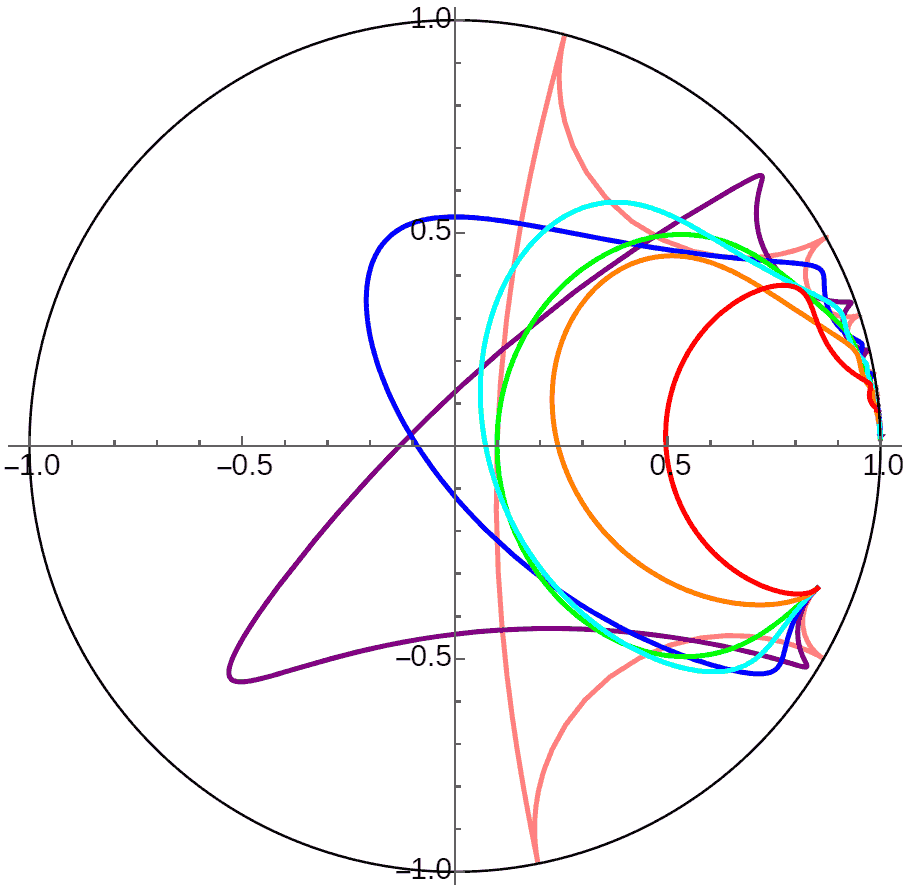
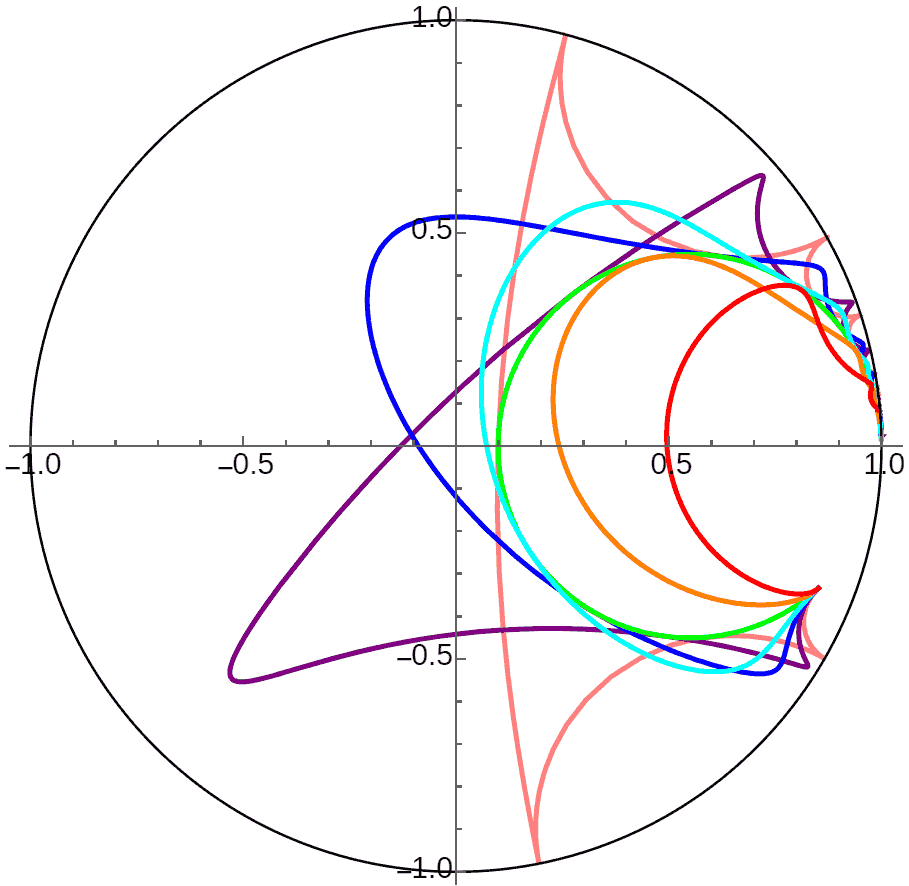
Site updated: 2023-06-30 22:18:45

diff --git a/archives/hyperworld/index.html b/archives/hyperworld/index.html
@@ -51,7 +51,7 @@
 <meta property="og:image" content="https://wxyhly.github.io/img/h3world015.png">
 <meta property="og:image" content="https://wxyhly.github.io/img/h3world002.gif">
 <meta property="article:published_time" content="2023-06-28T15:02:11.000Z">
-<meta property="article:modified_time" content="2023-06-30T14:06:43.661Z">
+<meta property="article:modified_time" content="2023-06-30T14:18:37.802Z">
 <meta property="article:author" content="wxyhly">
 <meta property="article:tag" content="物理">
 <meta property="article:tag" content="几何">
@@ -237,7 +237,7 @@
 </ul>
 <p>从计算结果上可发现，由于极限圆周长是无限的，所以行星要么持续接近中心天体要么远离，因为行星永远也到不了位于无穷远处的“近日点”或“远日点”。所以这里其实跟四维空间中的那种三次方反比的不稳定轨道很像。注意虽然图中红、橙、绿色的轨道在庞加莱圆盘模型中看起来都是趋于无穷远中心天体，但其实绿色轨道是是个极限圆，行星始终保持距无穷远中心天体不变做“均速极限圆周”运动，而红色与橙色轨道才是真正的由于行星初速不够而持续向极限圆中心坠落的轨道，行星可以沿这些轨道在有限的时间内疯狂加速到达无穷远中心天体处！虽然这里只是讨论双曲空间中的牛顿力学，但这非常像物体掉进黑洞后可以在有限时间内到达奇点。</p>
 <p>最先我以为无穷远中心天体引力场中的行星轨道就都是这个规律，后来我在尝试计算行星在极限球星球内部的理论轨道时发现结果很奇怪，发现有东西不对：不同维度中的引力公式都是距离的指数函数，只是系数不同——$n$维空间中的引力表达式为$\exp(nd)$。我最先错误认为这个系数对轨道形状没有影响，然而这个系数其实提出来是幂$(\exp(d))^n$，它对轨道形状及稳定性都是有影响的。二维双曲世界中轨道的计算结果发现行星的运动居然有周期性！我认为它跟三维空间情况的区别主要是二维空间轨道有进动，导致“近日点”与“远日点”不再位于圆形轨道的两端，这样当圆趋于无穷变极限圆后“近日点”与“远日点”都将在有限的位置，并且在极限圆上出现了无穷个“近日点”与“远日点”！我们可以看到这个“近日点”与“远日点”在极限圆上出现的周期随着初速度的提高而减小，且有个极限周期（对应刚好略低于逃逸速度的轨道，如图中的紫色轨道）<img width="100%" style="max-width:400px" alt="二维双曲空间中的无穷远中心天体引力场中的行星不同初速的轨道" src="/img/h3world012.png"/><br>可能你觉得看不出上面的轨道有周期性，我这里做一段沿极限圆做理想旋转的动画：<br><img src="/img/h3world001.gif" alt="理想旋转可看出这些轨道的周期性，注意每个轨道的周期都不同"><br>如果空间维数是四维，则轨道会变得不稳定。它跟刚才三维说的区别是轨道的发散和收敛会更快，对极限圆轨道的初始速度精确性更敏感，这里就不放图了。</p>
-<h4 id="行星位于极限球星球内部"><a href="#行星位于极限球星球内部" class="headerlink" title="行星位于极限球星球内部"></a>行星位于极限球星球内部</h4><p>还有一种一种情况只在数学上有意义：行星在极限球星球内部受到大小恒定的指向球心的引力。虽然实际上行星不可能在另一个星体内部运行，但我们也可以来探究一下行星轨道的稳定性：<br><img width="100%" style="max-width:400px" alt="极限球天体内部引力场中的行星不同初速的轨道" src="/img/h3world013.png"/><br>它跟二维极限球星球外部轨道很像，但由于引力至为常数不衰减，所以行星逃逸速度为无穷大。当速度接近无穷时（图中粉色轨道），它的轨迹接近自由运动的测地线，到了很远的地方后，测地线的方向将与指向极限圆中心的方向相反，引力可以一直慢慢做负功，直到让行星掉头重新掉回来。图中可以明显看到行星掉回来后它在最低点的高度会小于初始平抛的高度位置，我不知道是计算错误&#x2F;误差还是本来就是这样的规律。。。</p>
+<h4 id="行星位于极限球星球内部"><a href="#行星位于极限球星球内部" class="headerlink" title="行星位于极限球星球内部"></a>行星位于极限球星球内部</h4><p>还有一种一种情况只在数学上有意义：行星在极限球星球内部受到大小恒定的指向球心的引力。虽然实际上行星不可能在另一个星体内部运行，但我们也可以来探究一下行星轨道的稳定性：<br><img width="100%" style="max-width:400px" alt="极限球天体内部引力场中的行星不同初速的轨道" src="/img/h3world013.png"/><br>它跟二维极限球星球外部轨道很像，但由于引力至为常数不衰减，所以行星逃逸速度为无穷大。当速度接近无穷时（图中粉色轨道），它的轨迹接近自由运动的测地线，到了很远的地方后，测地线的方向将与指向极限圆中心的方向相反，引力可以一直慢慢做负功，直到让行星掉头重新掉回来！注意初速度大于极限圆轨道的这些轨道的“近日点”处永远切于极限圆轨道，而小于极限圆轨道初速的轨道则是“远日点”均切于极限圆轨道。</p>
 <h3 id="行星环绕空壳无限大平面星球"><a href="#行星环绕空壳无限大平面星球" class="headerlink" title="行星环绕空壳无限大平面星球"></a>行星环绕空壳无限大平面星球</h3><p>最后还可以计算空壳无限大平面（测地面）星球外部引力场中的轨道。（注：这种无限大星球外部与半空间星球外部引力相同，但其内部引力有限，是可以存在的）绕它的行星的“正圆”轨道此时已经变成了等距曲线。若行星初速度变化一些，它在不同维度中的轨道稳定性如何呢？这个计算量其实相对于极限圆还小一些，<a href="javascript:$('#equidistance').toggle()"">但这里同样隐藏计算过程，想看推导请点击此链接展开</a>。</p>
 <div id="equidistance" style="background-color: #EEF;display:none;">
 
